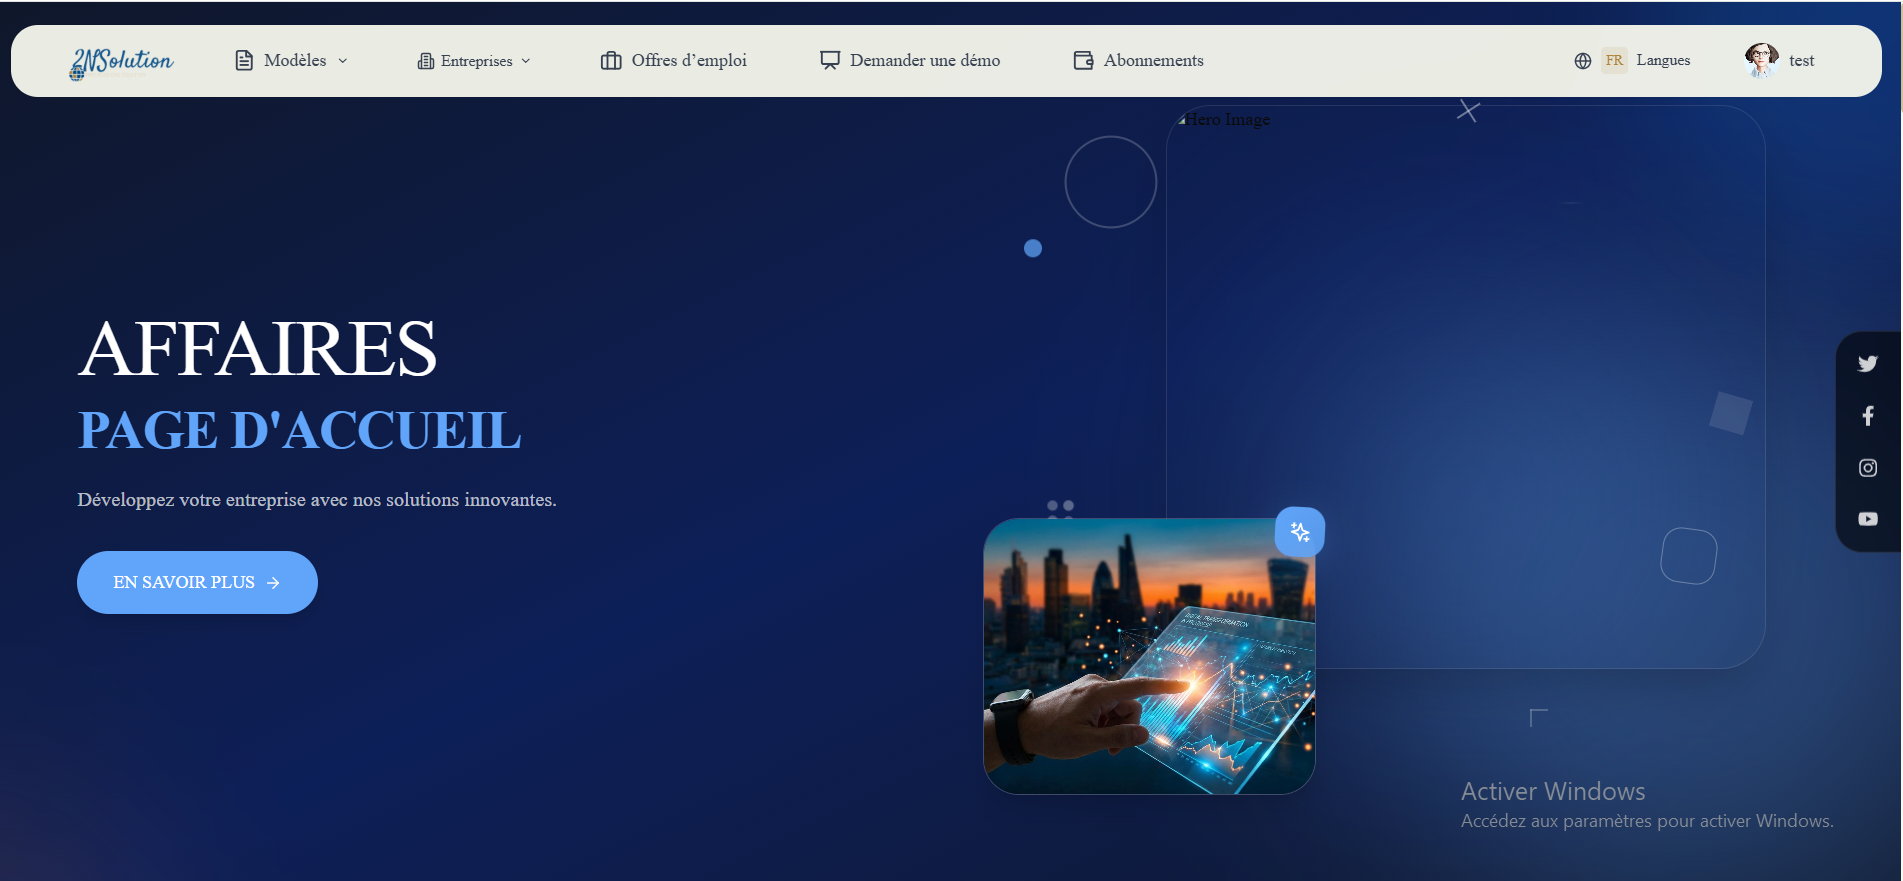
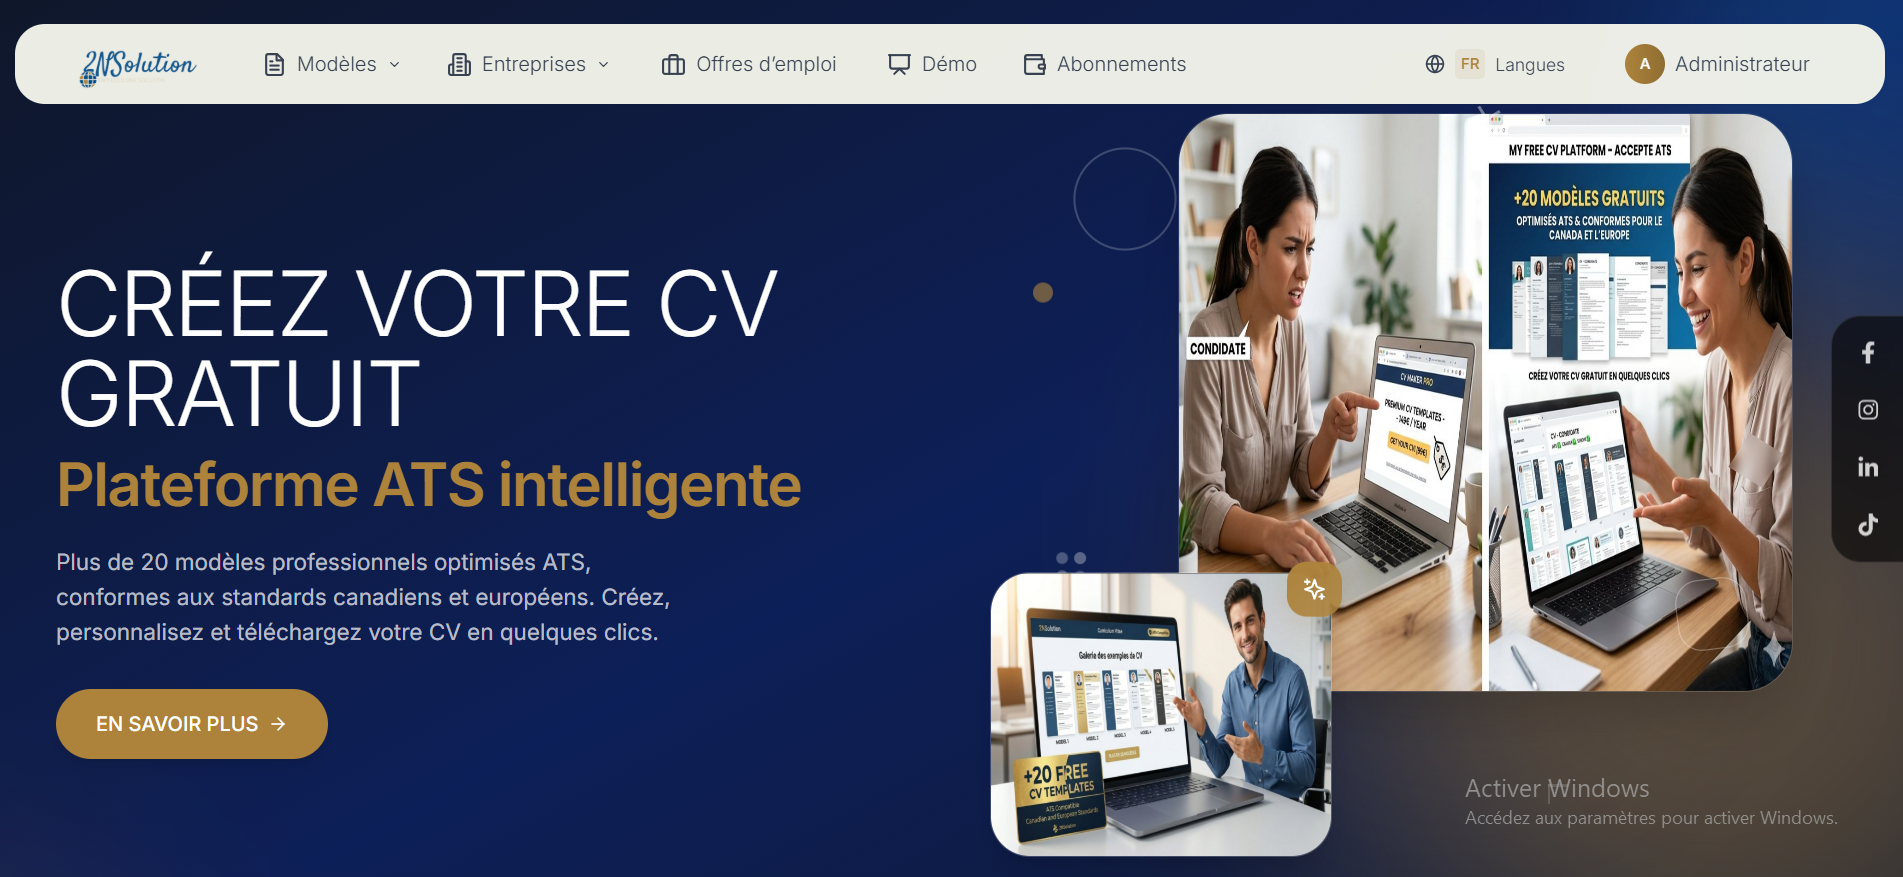
modif

diff --git a/components/sections/Projects.tsx b/components/sections/Projects.tsx
@@ -37,11 +37,11 @@ const projects: Project[] = [
     demoLink: "https://srtsiliana.tn",
   },
   {
-    title: "ADAPT - Gestion des remboursements agricoles",
-    description: "Plateforme web dédiée à la gestion des remboursements et au suivi des agriculteurs, incluant des fonctionnalités avancées de vérification et de reporting.",
-    image: "/adapt.png",
-    tags: ["Laravel", "Bootstrap", "REST API"],
-    demoLink: "https://adapt-cereales.org/",
+    title: "Padel Society - Club de Padel Premium",
+    description: "Application web conçue pour la gestion et la promotion d’un club de padel haut de gamme, incluant les réservations, les adhésions, l’académie, les offres et les événements. Réalisée avec Nuxt.js et MongoDB pour garantir performance, flexibilité et évolutivité.",
+    image: "/padel-society.png",
+    tags: ["Nuxt.js", "MongoDB", "Tailwind CSS"],
+    demoLink: "https://padel.4prod.tn/",
   },
   {
     title: "Saphir Palace - Gestion hôtelière",
@@ -58,11 +58,11 @@ const projects: Project[] = [
     demoLink: "https://dotexpo.4prod.tn",
   },
   {
-    title: "Resum.io - Builder de CV & Lettres de Motivation",
+    title: "2nsolution - Builder de CV & Lettres de Motivation",
     description: "Application web complète de création et gestion de CV professionnels et lettres de motivation, avec des templates personnalisables et un système de recrutement intégré.",
     image: "/resume.png",
     tags: ["Next.js", "Shadcn UI", "MongoDB", "GitHub", "PDF Generation", "AI Assistant"],
-    demoLink: "https://app.2nsolution.com/",
+    demoLink: "https://2nsolution.com/",
   },
   {
     title: "Privatechlab - Site Vitrine",

diff --git a/components/sections/Hero.tsx b/components/sections/Hero.tsx
@@ -50,7 +50,7 @@ export const Hero = () => {
           <div className="w-full h-full rounded-full overflow-hidden border-4 sm:border-6 lg:border-8 border-white dark:border-gray-800 relative bg-gradient-to-br from-purple-50 to-blue-50 dark:from-purple-900/20 dark:to-blue-900/20 shadow-2xl">
             <div className="w-full h-full relative">
               <Image
-                src="/pixelcut-export (1).png"
+                src="/nidhal cv image.png"
                 alt="Photo de profil de Nidhal"
                 fill
                 className="object-cover"